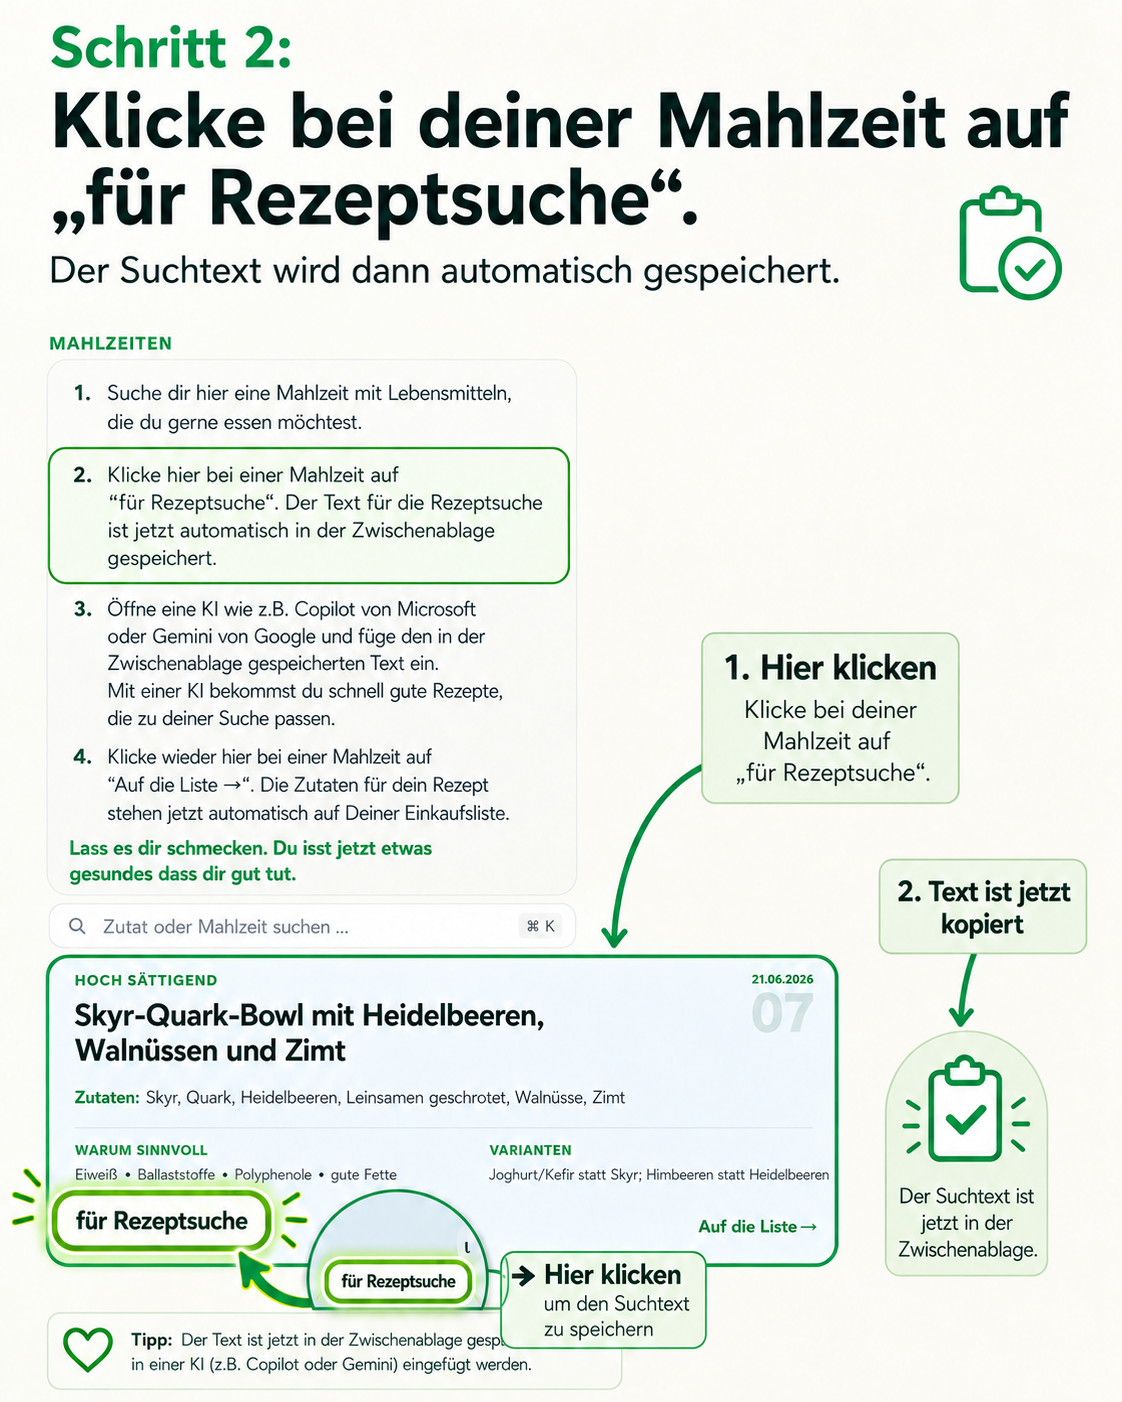
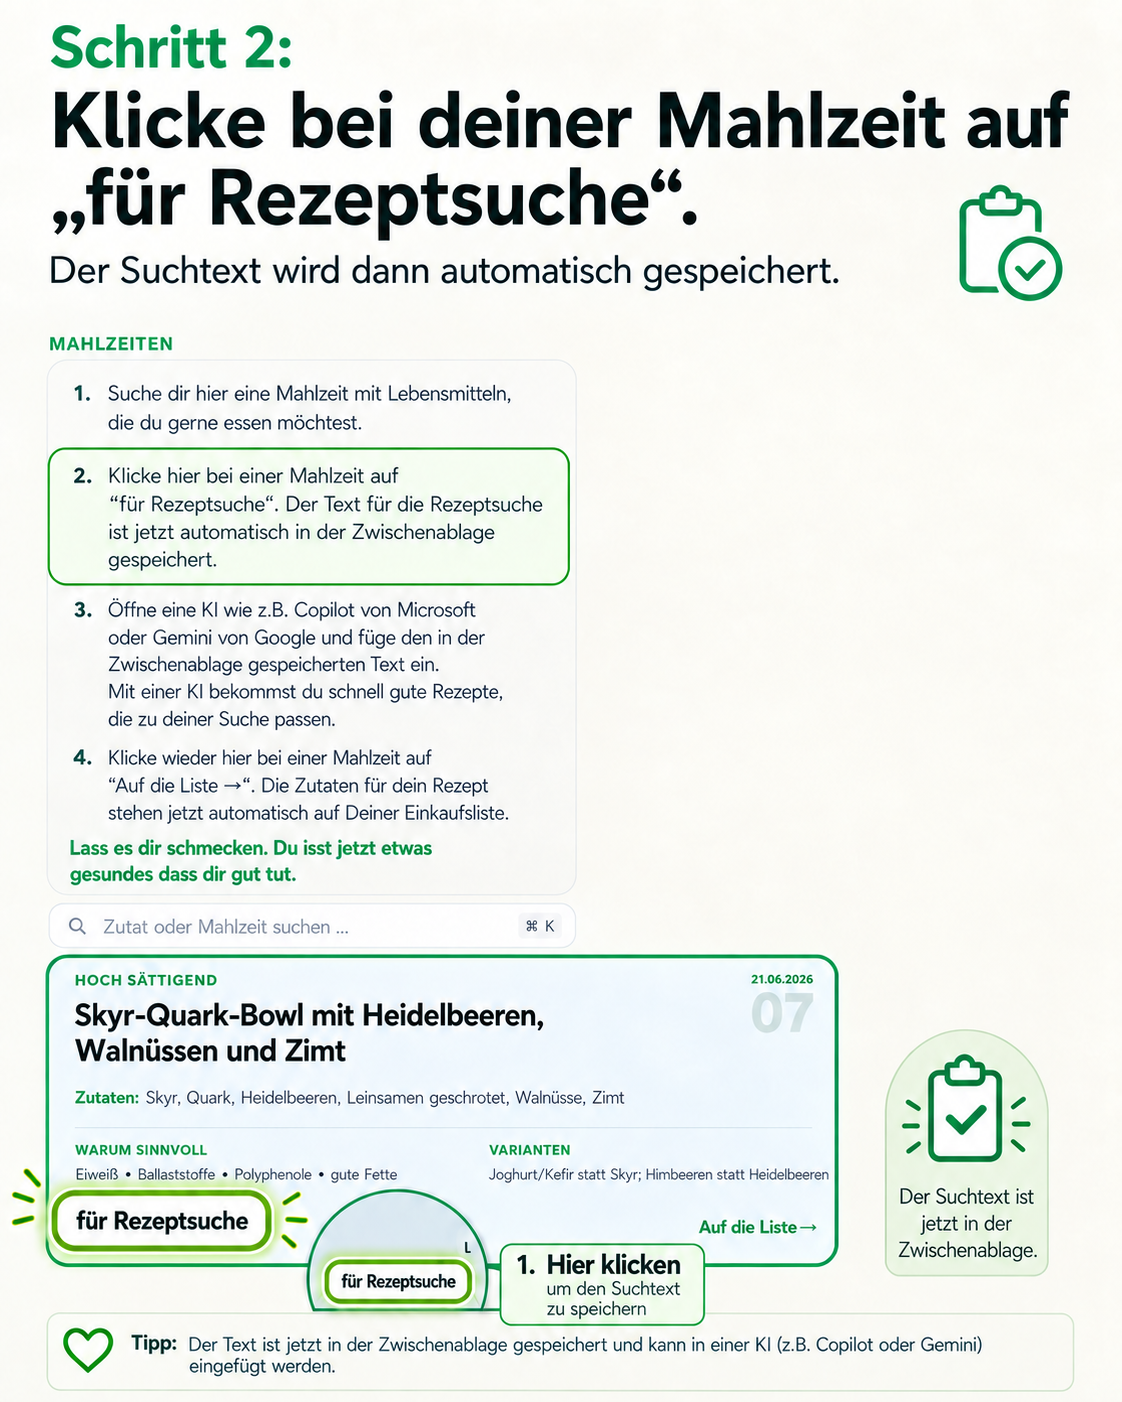
Update second meal guide image

diff --git a/index.html b/index.html
@@ -9,7 +9,7 @@
       content="Antientzündliche Lebensmittel entdecken, filtern und als Einkaufsliste speichern."
     />
     <title>Lebensmitteleinkauf</title>
-    <link rel="stylesheet" href="style.css?v=meal-action-layout-20260921-2" />
+    <link rel="stylesheet" href="style.css?v=meal-guide-step2-20260921-1" />
   </head>
   <body>
     <div class="app-shell">
@@ -432,7 +432,7 @@ Nur bei zu langer Anmeldedauer auf Anmeldung erneuern klicken.</span>
                   <li><span class="meal-guide-step-content">Suche dir hier eine Mahlzeit mit Lebensmitteln die du gerne essen möchtest. <button class="meal-guide-image-button" type="button" data-meal-guide-step="1" aria-label="Bild zu Schritt 1 öffnen"><span class="button-icon" data-icon="imageOpen" aria-hidden="true"></span><span>Bild</span></button></span></li>
                   <li><span class="meal-guide-step-content">Klicke hier bei einer Mahlzeit auf "für Rezeptsuche". Der Text für die Rezeptsuche ist jetzt automatisch in der Zwischenablage gespeichert. <button class="meal-guide-image-button" type="button" data-meal-guide-step="2" aria-label="Bild zu Schritt 2 öffnen"><span class="button-icon" data-icon="imageOpen" aria-hidden="true"></span><span>Bild</span></button></span></li>
                   <li><span class="meal-guide-step-content">Öffne eine KI wie z.B. Copilot von Microsoft oder Gemini von Google und füge den in der Zwischenablage gespeicherten Text ein.<br />Mit einer KI bekommst du schnell gute Rezepte die zu deiner Suche passen. <button class="meal-guide-image-button" type="button" data-meal-guide-step="3" aria-label="Bild zu Schritt 3 öffnen"><span class="button-icon" data-icon="imageOpen" aria-hidden="true"></span><span>Bild</span></button></span></li>
-                  <li><span class="meal-guide-step-content">Klicke wieder hier bei einer Mahlzeit auf "Auf die Liste →". Die Zutaten für dein Rezept stehen jetzt automatisch auf Deiner Einkaufsliste. <button class="meal-guide-image-button" type="button" data-meal-guide-step="4" aria-label="Bild zu Schritt 4 öffnen"><span class="button-icon" data-icon="imageOpen" aria-hidden="true"></span><span>Bild</span></button></span></li>
+                  <li class="meal-guide-note"><span class="meal-guide-step-content">Klicke wieder hier bei einer Mahlzeit auf "Auf die Liste →". Die Zutaten für dein Rezept stehen jetzt automatisch auf Deiner Einkaufsliste. <button class="meal-guide-image-button" type="button" data-meal-guide-step="4" aria-label="Bild zu Hinweis a öffnen"><span class="button-icon" data-icon="imageOpen" aria-hidden="true"></span><span>Bild</span></button></span></li>
                 </ol>
                 <p class="meal-guide-closing">Lass es dir schmecken. Du isst jetzt etwas gesundes dass dir gut tut.</p>
               </div>
@@ -541,6 +541,6 @@ Nur bei zu langer Anmeldedauer auf Anmeldung erneuern klicken.</span>
       document.write('<script src="data.js?v=' + Date.now() + '"><\/script>');
     </script>
     <script src="vendor/msal-browser.min.js?v=2.38.3"></script>
-    <script src="app.js?v=meal-action-layout-20260921-2"></script>
+    <script src="app.js?v=meal-guide-step2-20260921-1"></script>
   </body>
 </html>

diff --git a/app.js b/app.js
@@ -2,7 +2,7 @@
   "use strict";
 
   const { foods, meals, sources, foodNames = [] } = window.APP_DATA;
-  const appVersion = "meal-action-layout-20260921-2";
+  const appVersion = "meal-guide-step2-20260921-1";
   const appVersionFile = "app-version.json";
   const appRefreshParam = "appRefresh";
   const appRefreshSessionKey = "lebensmitteleinkauf:app-refresh-version:v1";
@@ -48,10 +48,10 @@
   const foodByName = new Map(foods.map((food) => [normalizeFoodName(food.name), food]));
   const mealIndexById = new Map(meals.map((meal, index) => [meal.id, index]));
   const mealGuideImages = {
-    1: { src: "assets/meal-guide/step-1.png?v=meal-action-layout-20260921-2", alt: "Bildanleitung zu Schritt 1: Eine Mahlzeit auswählen" },
-    2: { src: "assets/meal-guide/step-2.png?v=meal-action-layout-20260921-2", alt: "Bildanleitung zu Schritt 2: Text für die Rezeptsuche kopieren" },
-    3: { src: "assets/meal-guide/step-3.png?v=meal-action-layout-20260921-2", alt: "Bildanleitung zu Schritt 3: Den kopierten Text in eine KI einfügen" },
-    4: { src: "assets/meal-guide/step-4.png?v=meal-action-layout-20260921-2", alt: "Bildanleitung zu Schritt 4: Zutaten auf die Einkaufsliste setzen" },
+    1: { src: "assets/meal-guide/step-1.png?v=meal-guide-step2-20260921-1", alt: "Bildanleitung zu Schritt 1: Eine Mahlzeit auswählen" },
+    2: { src: "assets/meal-guide/step-2.png?v=meal-guide-step2-20260921-1", alt: "Bildanleitung zu Schritt 2: Text für die Rezeptsuche kopieren" },
+    3: { src: "assets/meal-guide/step-3.png?v=meal-guide-step2-20260921-1", alt: "Bildanleitung zu Schritt 3: Den kopierten Text in eine KI einfügen" },
+    4: { src: "assets/meal-guide/step-4.png?v=meal-guide-step2-20260921-1", alt: "Bildanleitung zu Hinweis a: Zutaten auf die Einkaufsliste setzen" },
   };
 
   const iconPaths = {

diff --git a/style.css b/style.css
@@ -1367,6 +1367,7 @@ main {
   font-variant-numeric: tabular-nums;
   text-align: right;
 }
+.meal-guide-list li.meal-guide-note::before { content: "a."; }
 .meal-guide-step-content { min-width: 0; }
 .meal-guide-image-button {
   display: inline-flex;
